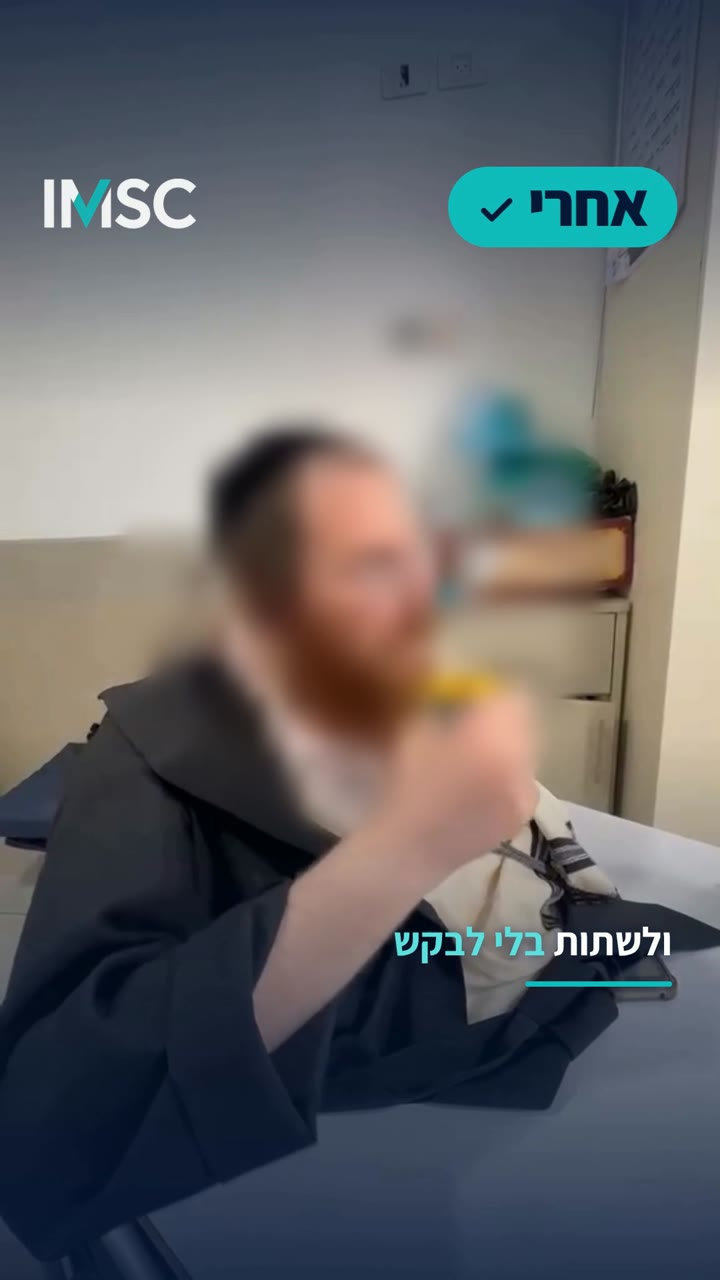
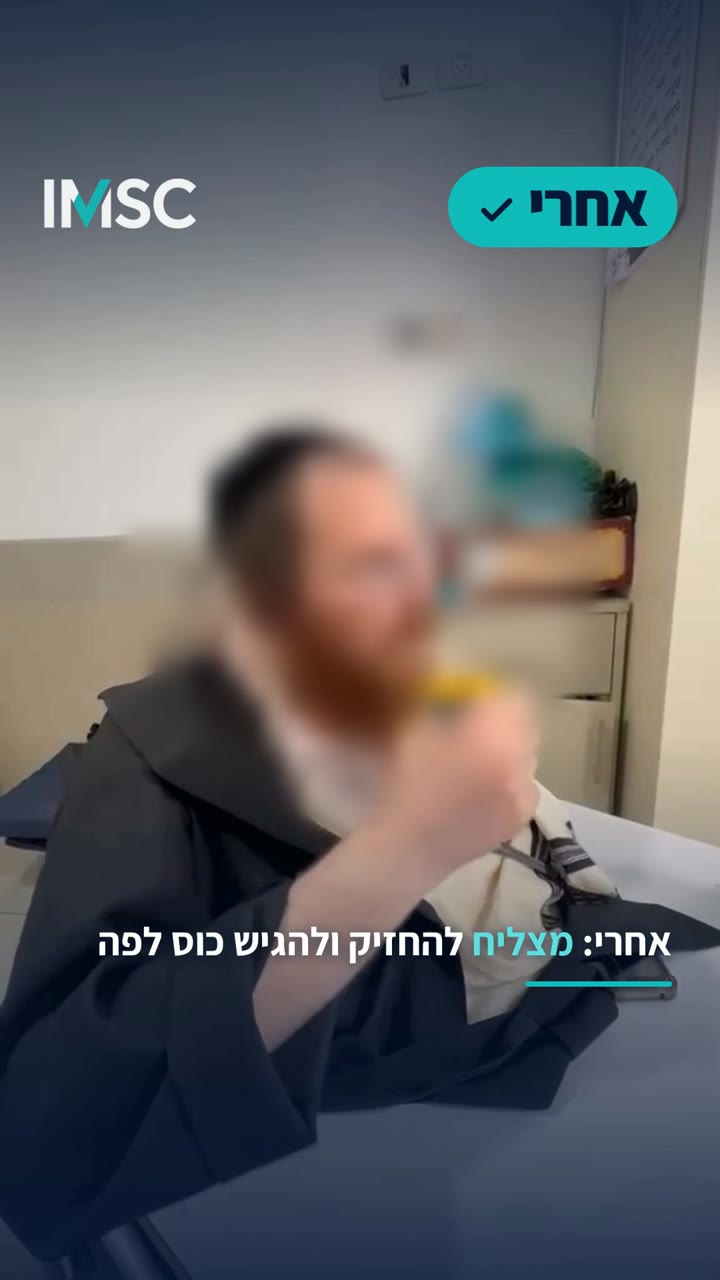
before-after-1: storyboard review round 2 (v2): client captions, new scene 03b
Claude-Session: https://claude.ai/code/session_01F4s6yZrDv1CBFW3cejaZFB

Changed region(s): [[0.1222, 0.7188, 0.9472, 0.75]]

diff --git a/before-after-1/index.html b/before-after-1/index.html
@@ -33,6 +33,8 @@ p{margin:.5rem 0}
 .label{font-size:.8rem;font-weight:800;letter-spacing:.06em;color:var(--muted);margin-top:14px}
 .quote{background:var(--hi-soft);border-radius:10px;padding:8px 12px;font-weight:700;margin-top:4px;white-space:pre-line}
 .body{margin-top:4px;white-space:pre-line}
+.chg{display:inline-block;background:var(--chg-soft);color:var(--chg);font-size:.78rem;font-weight:800;padding:.05em .6em;border-radius:99px;vertical-align:middle}
+.changed{background:var(--chg-soft);border-radius:10px;padding:8px 12px;margin-top:10px;font-size:.95rem}
 .rev{background:var(--chg-soft);color:var(--ink);border-radius:10px;padding:8px 12px;margin-top:4px;white-space:pre-line}
 .rev b{color:var(--chg)}
 .answer{margin-top:16px}
@@ -75,7 +77,7 @@ button.primary:disabled{opacity:.55;cursor:default}
   </section>
 </div>
 <script>
-const C = {"project": "before-after-1", "doc": "reviews/before-after-1-storyboard-v1", "ls": "imsc-before-after-1-storyboard-v1", "brand": "IMSC · לפני ואחרי 1 · סטוריבורד v1", "h1": "הסטוריבורד לאישור: גרסה 1", "intro": "שבע סצנות, כל אחת עם הפריים האמיתי מהגרסה הבנויה (הפנים מטושטשות), הטקסט שעל המסך, מה זז, ומה הביקורת מציעה לשנות. כתבו מתחת לכל סצנה רק מה שעוד צריך לשנות, או \"מאושר כולל ההצעה\" אם ההצעה טובה. תיבה ריקה = מאושר כמו שהוא. בסוף לחצו \"שמור\".", "facts": ["ריל 9:16", "35 שניות (31 לפי ההצעה)", "7 סצנות", "פנים מטושטשות"], "itemWord": "סצנה", "sendTitle": "הערות לסטוריבורד v1 של \"לפני ואחרי 1\":", "items": [{"k": "f01", "n": "01", "t": "פתיח: לאכול לבד", "sub": "0.0–3.0 שנ׳", "img": "img/f01.jpg", "quote": "יש דברים שלוקחים כמובנים מאליהם.\nלאכול לבד.", "body": "כרטיס נייבי. השורה העליונה עולה, \"לאכול לבד.\" נוחת בטורקיז ועומד 1.3 שנ׳ בלי תנועה. יוצא ב-blur crossfade אל הפוטג׳.", "rev": "הביקורת מציעה: לבטל את הכרטיס ולשים את ההוק על הפוטג׳ של סצנה 02 (2 שנ׳), ולהוסיף שורת תוצאה: \"לאכול לבד. זה חוזר.\" ברילס מחליטים לגלול ב-1–1.5 שנ׳, וכרטיס טקסט בלי תמונה הוא הקל ביותר לגלול ממנו."}, {"k": "f02", "n": "02", "t": "לפני 1: הכף של מישהו אחר", "sub": "3.0–8.6 שנ׳ · WA0025", "img": "img/f02.jpg", "quote": "לפני: כל כפית עוברת דרך יד אחרת", "body": "מלמעלה, היד של המטפלת אוספת אוכל, היד של המטופל מתחת. אין פנים. גלולה אדומה \"לפני\" נוחתת, לוגו נכנס משמאל, הכיתוב עולה עם קו אדום. גריידינג קריר.", "rev": "הביקורת מציעה: לקצר ל-4 שנ׳ (5.6 על שוט סטטי זה הרבה), כניסה שקטה יותר לגלולה (בלי \"סלאם\"), והמילים המודגשות בלבן במקום ורוד."}, {"k": "f03", "n": "03", "t": "לפני 2: ביס שתלוי במישהו", "sub": "8.6–13.6 שנ׳ · WA0026", "img": "img/f03.jpg", "quote": "כל ביס תלוי במישהו אחר", "body": "המטפלת מגישה כף לפה. פנים מטושטשות. הכיתוב מתחלף (היוצא עולה, הנכנס מימין). יוצא ב-seam wipe: פס טורקיז חוצה מימין לשמאל וחושף את \"אחרי\".", "rev": "הביקורת מציעה: פאנץ׳-אין 1.7× על אזור היד והכף (החלק התחתון של הפריים), כך שהפנים מחוץ לפריים ואין טשטוש בכלל. וכיתוב: \"כל ביס מחכה ליד של מישהו אחר\" במקום \"תלוי\" (נשמע כשיפוט). לקצר ל-4.5 שנ׳."}, {"k": "f04", "n": "04", "t": "אחרי 1: המזלג בידו", "sub": "13.6–18.7 שנ׳ · WA0021", "img": "img/f04.jpg", "quote": "אחרי: המזלג בידו. צעד אחר צעד", "body": "ידיים בלבד, מזלג מותאם, חיתוך בננה. אין פנים. גלולה טורקיז \"אחרי ✓\" נכנסת מימין, ה-✓ קופץ. גריידינג חם.", "rev": "הביקורת מציעה: לקצר את הכיתוב ל\"אחרי: המזלג בידו\" (כיתוב אחד = רעיון אחד; הפוטג׳ כבר מראה את ה\"צעד אחר צעד\"). 4 שנ׳."}, {"k": "f05", "n": "05", "t": "אחרי 2: לבד, מהצלחת עד הפה", "sub": "18.7–22.7 שנ׳ · WA0020", "img": "img/f05.jpg", "quote": "לבד. מהצלחת עד הפה", "body": "מלמעלה, היד שלו מובילה את המזלג לבד. רק 4.3 השניות הראשונות של הקליפ (אחר כך נכנסות פנים). מקביל אחד-לאחד לסצנה 02: אותה זווית, יד אחרת.", "rev": "הביקורת: ללא שינוי. זו סצנת ההוכחה והיא עובדת."}, {"k": "f06", "n": "06", "t": "אחרי 3: ולשתות בלי לבקש", "sub": "22.7–27.4 שנ׳ · WA0019", "img": "img/f06.jpg", "quote": "ולשתות בלי לבקש", "body": "שותה מכוס לבד. פנים מטושטשות (הכוס על הפנים, אין קרופ אפשרי). הכיתוב נכנס בסקייל+בלור. יוצא בדהייה לנייבי.", "rev": "הביקורת מציעה: לקצר ל-4 שנ׳ ולבחור את הרגע של הרמת הכוס, כדי לצמצם את זמן המסך של הטשטוש היחיד שנשאר."}, {"k": "f07", "n": "07", "t": "קלוז: עצמאות מתחילה בביס אחד", "sub": "27.7–35.0 שנ׳", "img": "img/f07.jpg", "quote": "עצמאות מתחילה\nבביס אחד.\nריפוי בעיסוק, פיזיותרפיה והזרקות בוטולינום. כל המומחים לספסטיות תחת קורת גג אחת.\nלתיאום פגישת הערכה · 055-2690670 · imsc.co.il", "body": "כרטיס נייבי עם זוהר. לוגו, כותרת, שורת שירותים, כפתור וואטסאפ, טלפון, אתר נכנסים בזה אחר זה, ואז הכל עומד 4 שנ׳. הכפתור נוגע פעם אחת.", "rev": "הביקורת מציעה: 4 אלמנטים בלבד (לוגו, כותרת, כפתור, טלפון). למחוק את שורת השירותים ואת imsc.co.il: ב-6 שניות הם מתחרים בטלפון, וה-CTA של אינסטגרם כבר מתחת לסרטון. 6 שנ׳."}, {"k": "g01", "n": "08", "t": "לכל הסרטון: הצעות רוחביות", "sub": "מתוך REVIEW.md", "body": "• שני צבעי הדגשה בלבד: אדום ל\"לפני\", טורקיז ל\"אחרי\" (בלי ורוד).\n• כיוון אחיד לכל התפרים: ימין → שמאל. seam wipe אחד מושקע, השאר שקטים.\n• סך הכל ~31 שנ׳ אחרי הקיצורים.\n• מוזיקה: פסנתר שקט 65–80 BPM מספריית Instagram, עלייה בכניסה ל\"אחרי\". לא בקובץ.\n• גרסת 15 שנ׳ לקמפיין ממומן: הוק על 02 → 03 → wipe → 05 → קלוז.\n• שאלות פתוחות: WA0022 (זהה ל-22(1)) לפני או אחרי? WA0023 ו-WA0018 לא ירדו. WA0024 בחוץ (סותר את \"לפני\").", "rev": ""}], "inbox": "https://script.google.com/macros/s/AKfycbzEj4lUky1em3ctwa-hol23Hfu5F5paCqut5pzeSTKYG4oaqZSQhPhb5EfFf9ZS16u11w/exec"};
+const C = {"project": "before-after-1", "doc": "reviews/before-after-1-storyboard-v2", "ls": "imsc-before-after-1-storyboard-v2", "brand": "IMSC · לפני ואחרי 1 · סטוריבורד v2", "h1": "הסטוריבורד לאישור: גרסה 2", "intro": "סבב 2. חמש ההערות שלכם מסבב 1 יושמו: הכיתובים בניסוח שלכם, וסצנה חדשה (03ב) שבה המטופל מתקשה להוביל את הכף לפה. כל סצנה שהשתנתה מסומנת ב\"שונה\" עם משפט על מה בדיוק השתנה. הפריימים הם מהגרסה הבנויה החדשה, אחרי טשטוש הפנים. תיבה ריקה = מאושר. כשהכול ריק, הסטוריבורד נעול ועוברים לביקורת הסרטון.", "facts": ["ריל 9:16", "39.5 שניות", "8 סצנות", "פנים מטושטשות"], "itemWord": "סצנה", "sendTitle": "הערות לסטוריבורד v2 של \"לפני ואחרי 1\":", "items": [{"k": "f01", "n": "01", "t": "פתיח: לאכול לבד", "sub": "0.0–3.0 שנ׳", "img": "img/f01.jpg", "quote": "יש דברים שלוקחים כמובנים מאליהם.\nלאכול לבד.", "body": "כרטיס נייבי. השורה העליונה עולה, \"לאכול לבד.\" נוחת בטורקיז ועומד 1.3 שנ׳ בלי תנועה. יוצא ב-blur crossfade אל הפוטג׳. ללא שינוי (אושר בסבב 1)."}, {"k": "f02", "n": "02", "t": "לפני 1: קושי באיסוף אוכל", "sub": "3.0–8.6 שנ׳ · WA0025", "img": "img/f02.jpg", "quote": "לפני: קושי באיסוף אוכל לתוך הכף", "body": "מלמעלה, היד של המטפלת אוספת אוכל, היד של המטופל מתחת. אין פנים. גלולה אדומה \"לפני\", לוגו, כיתוב עם קו אדום.", "ch": "הכיתוב הוחלף לניסוח שלכם: \"לפני: קושי באיסוף אוכל לתוך הכף\"."}, {"k": "f03", "n": "03", "t": "לפני 2: קושי בהרמת הכף", "sub": "8.6–13.6 שנ׳ · WA0026", "img": "img/f03.jpg", "quote": "לפני: קושי בהרמת הכף לכיוון הפה", "body": "המטפלת מגישה כף לפה. פנים מטושטשות. הכיתוב מתחלף (היוצא עולה, הנכנס מימין). יוצא ב-crossfade אל הסצנה החדשה.", "ch": "הכיתוב הוחלף ל\"לפני: קושי בהרמת הכף לכיוון הפה\" (כתבתם \"הקמת\", קראתי כ\"הרמת\"). המעבר הגדול (seam wipe) עבר לסצנה 03ב."}, {"k": "f03b", "n": "03ב", "t": "לפני 3: קושי בהובלת הכף לפה", "sub": "13.6–18.1 שנ׳ · WA0024 · חדש", "img": "img/f03b.jpg", "quote": "לפני: קושי בהובלת הכף לפה", "body": "המטופל מוביל כף לפה בעצמו, בקושי. פנים מטושטשות. הכיתוב נכנס בסקייל+בלור. יוצא ב-seam wipe: פס טורקיז חוצה מימין לשמאל וחושף את \"אחרי\".", "ch": "סצנה חדשה לפי ההערה שלכם (\"תוסיף עוד סרטון שבו רואים את המטופל מתקשה בהכנסת הכף לפה\"). נבחר הקליפ WA0024, 4.5 שנ׳ מתחילתו."}, {"k": "f04", "n": "04", "t": "אחרי 1: מצליח לחתוך לבד", "sub": "18.1–23.2 שנ׳ · WA0021", "img": "img/f04.jpg", "quote": "אחרי: מצליח לחתוך לבד", "body": "ידיים בלבד, מזלג מותאם, חיתוך בננה. אין פנים. גלולה טורקיז \"אחרי ✓\" נכנסת מימין, ה-✓ קופץ. גריידינג חם.", "ch": "הכיתוב הוחלף ל\"אחרי: מצליח לחתוך לבד\"."}, {"k": "f05", "n": "05", "t": "אחרי 2: מצליח להגיש אוכל לפה", "sub": "23.2–27.2 שנ׳ · WA0020", "img": "img/f05.jpg", "quote": "אחרי: מצליח להגיש אוכל מהצלחת אל הפה", "body": "מלמעלה, היד שלו מובילה את המזלג לבד. רק 4.3 השניות הראשונות של הקליפ (אחר כך נכנסות פנים). הכיתוב נשבר לשתי שורות; אם תרצו שורה אחת, אפשר לקצר ל\"אחרי: מצליח להגיש אוכל לפה\".", "ch": "הכיתוב הוחלף ל\"אחרי: מצליח להגיש אוכל מהצלחת אל הפה\"."}, {"k": "f06", "n": "06", "t": "אחרי 3: מצליח להגיש כוס לפה", "sub": "27.2–31.9 שנ׳ · WA0019", "img": "img/f06.jpg", "quote": "אחרי: מצליח להחזיק ולהגיש כוס לפה", "body": "שותה מכוס לבד. פנים מטושטשות. יוצא בדהייה לנייבי.", "ch": "הכיתוב הוחלף ל\"אחרי: מצליח להחזיק ולהגיש כוס לפה\"."}, {"k": "f07", "n": "07", "t": "קלוז: עצמאות מתחילה בביס אחד", "sub": "32.2–39.5 שנ׳", "img": "img/f07.jpg", "quote": "עצמאות מתחילה\nבביס אחד.\nריפוי בעיסוק, פיזיותרפיה והזרקות בוטולינום. כל המומחים לספסטיות תחת קורת גג אחת.\nלתיאום פגישת הערכה · 055-2690670 · imsc.co.il", "body": "כרטיס נייבי עם זוהר. לוגו, כותרת, שורת שירותים, כפתור וואטסאפ, טלפון, אתר. ללא שינוי (אושר בסבב 1); רק זז ב-4.5 שנ׳ בגלל הסצנה החדשה."}], "inbox": "https://script.google.com/macros/s/AKfycbzEj4lUky1em3ctwa-hol23Hfu5F5paCqut5pzeSTKYG4oaqZSQhPhb5EfFf9ZS16u11w/exec"};
 const $ = id => document.getElementById(id);
 const ORDER = C.items.map(i => i.k), LABEL = {}, areas = {};
 C.items.forEach(i => { LABEL[i.k] = C.itemWord + ' ' + i.n + ' · ' + i.t; });
@@ -86,7 +88,8 @@ C.items.forEach(i => {
   const art = document.createElement('article'); art.className = 'item' + (i.img ? '' : ' noimg'); art.id = 'item-' + i.k;
   let h = '';
   if (i.img) h += '<div class="shot"><img src="' + i.img + '" alt="" loading="lazy"></div>';
-  h += '<div><div class="meta"><span class="num">' + i.n + '</span><h2>' + esc(i.t) + '</h2>' + (i.sub ? '<span class="sub">' + esc(i.sub) + '</span>' : '') + '</div>';
+  h += '<div><div class="meta"><span class="num">' + i.n + '</span><h2>' + esc(i.t) + '</h2>' + (i.sub ? '<span class="sub">' + esc(i.sub) + '</span>' : '') + (i.ch ? '<span class="chg">שונה</span>' : '') + '</div>';
+  if (i.ch) h += '<div class="changed">' + esc(i.ch) + '</div>';
   if (i.quote) h += '<div class="label">הטקסט שעל המסך</div><div class="quote">' + esc(i.quote) + '</div>';
   if (i.body) h += '<div class="label">מה קורה</div><div class="body">' + esc(i.body) + '</div>';
   if (i.rev) h += '<div class="label">הביקורת</div><div class="rev">' + esc(i.rev) + '</div>';
